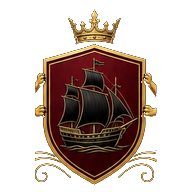
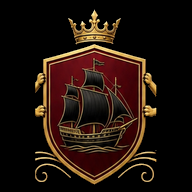
App-Symbole: schwarzer statt transparenter Hintergrund (kein weißes Quadrat um das Wappen)
Claude-Session: https://claude.ai/code/session_01VercX2gmkyUir6NgUgMamS

diff --git a/public/sw.js b/public/sw.js
@@ -1,5 +1,5 @@
 // Service Worker: App-Shell offline verfügbar, API-Aufrufe immer frisch aus dem Netz.
-const CACHE = "bsh-shell-v9";
+const CACHE = "bsh-shell-v10";
 const SHELL = ["/", "/chancen", "/watchlist", "/depot", "/mehr", "/echochart", "/einstellungen", "/manifest.webmanifest", "/icon-192.png", "/background.webp", "/background.jpg"];
 
 self.addEventListener("install", (e) => {

diff --git a/CLAUDE.md b/CLAUDE.md
@@ -82,3 +82,4 @@
 - GENEHMIGUNG UPDATE-LISTE 2 (Nutzer 12.11.2026): Prüfung des Stops nur am WOCHENSCHLUSS (Wochenschlusskurs) bestätigt; „das ganze Update“ (Punkte 1–4 inkl. Antworten oben) vom Nutzer gewollt. Start erst bei ausdrücklichem „ausführen“ (Nutzer schrieb „Nichts ändern“). Vorgehen: schrittweise – (a) Trainer realistisch (Grün+Blau, Blau-Quote), (b) Stop lernbar im Rahmen (Untergrenze Oberkante, Wochenschluss, Mindestschritt), (c) Stärke als lernbare Gewichte, (d) Buy-&-Hold-Karte mit EINEM Szenario; nach (a)+(b) dem Nutzer die Testergebnisse zeigen, erst danach online (ein Push auf main). Kein Mindest-Stopabstand-Filter ohne Nutzer-OK.
 - KLARSTELLUNG NUTZER 12.11.2026: „Wochenschluss“ = WOCHENKERZEN (nicht nur der Schlusskurs): Stop-Nachziehen/Zurückschieben wird aus der Struktur der abgeschlossenen Wochenkerzen entschieden (Tiefs/Hochs inkl. Dochte, z. B. letztes Wochen-Korrekturtief über der Oberkante), geprüft einmal je fertiger Wochenkerze; der Stop selbst bleibt ein normaler flatex-Stop (greift im Tagesverlauf). Untergrenze Oberkante bleibt.
 - BUGFIXES INS UPDATE (Nutzer 12.11.2026, alle vier gewählt; zusammen mit Update-Liste 2, Start bei „ausführen“): (a) Trainer: gewählte Lernzeit merken (nicht auf 30 Min zurückspringen) + klarer Hinweis, wenn das Training früher fertig ist, weil die Suche abgeschlossen war. (b) Grün-Quote („Aktuell 80,5 %“) zählt NUR Kauf-Zonen (keine Short-Zonen) – betrifft Lernziel/Anzeige, vorher in Zahlen zeigen (vorher/nachher). (c) Depot: Zeile „davon offene Gewinne/Verluste“, damit Kontostand = frei + gebunden + offener Gewinn aufgeht. (d) Trainer „Blau · Langfristig“: Wert aus der Vergangenheitsrechnung (alle Werte, gesperrte Daten) statt „noch keine“.
+- APP-SYMBOL (Nutzer 12.11.2026): Das weiße Quadrat um das Wappen auf dem Tablet-Startbildschirm (Launcher füllt transparente Symbole weiß) → Symbole wieder mit SCHWARZEM Hintergrund (icon-180/192/512/maskable-512 undurchsichtig schwarz; Sicherung der transparenten Fassung im Scratchpad icon_backup). Favicon bleibt transparent. Wirkt auf dem Tablet erst nach Neuinstallation der App. Hintergrund IN der App (Wappen/rote Karten): Nutzer hat „Warte“ gesagt – offen.
